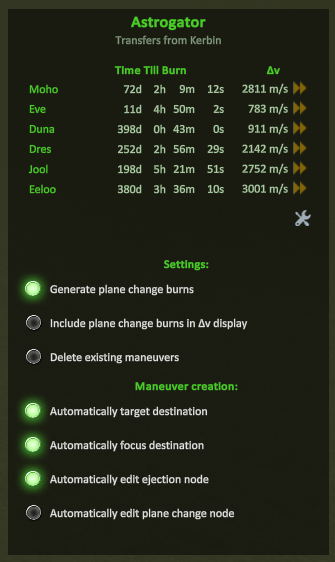
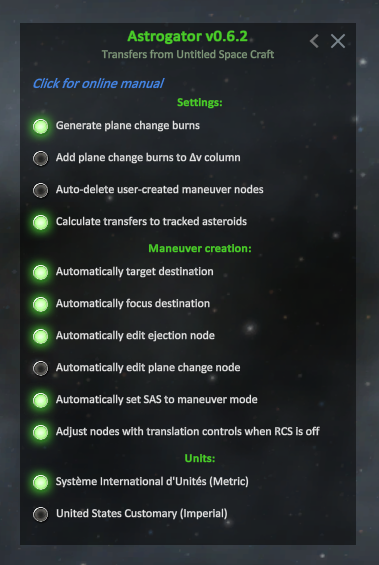
Prep for v0.6.2
- Update versions
- New main screenshot
- New settings screenshot
- Fix out of order settings Documentation

diff --git a/src/Properties/AssemblyInfo.cs b/src/Properties/AssemblyInfo.cs
@@ -31,5 +31,5 @@ using System.Runtime.InteropServices;
 //
 // You can specify all the values or you can default the Build and Revision Numbers
 // by using the '*' as shown below:
-[assembly: AssemblyVersion("0.6.1.0")]
-[assembly: AssemblyFileVersion("0.6.1.0")]
+[assembly: AssemblyVersion("0.6.2.0")]
+[assembly: AssemblyFileVersion("0.6.2.0")]

diff --git a/README.md b/README.md
@@ -45,7 +45,7 @@ If it's already within 5 minutes, you'll be auto-warped to the exact time of the
 
 ## Settings
 
-Click the wrench to open and close the settings panel:
+Click the wrench to open the settings panel and the back button to close it:
 
 ![Settings panel](screenshots/settingsPanel.png)
 
@@ -54,13 +54,13 @@ Click the wrench to open and close the settings panel:
 | Generate plane change burns | If you turn this off, then only (prograde) ejection maneuvers will be calculated. This may be needed if the plane change calculations become disruptive. |
 | Add plane change burns to Δv column | If you enable this, then the delta V shown in the table will be the ejection node plus the plane change node. Otherwise only the ejection delta V is shown, to make ejection burns less confusing when flying without maneuver nodes. |
 | Auto-delete user-created maneuver nodes | Our method for calculating plane changes doesn't work if other unrelated maneuvers are active. By default, we simply don't calculate them if that happens. Enabling this setting tells Astrogator to go ahead and delete your nodes if it needs to. **Use with caution!** |
+| Calculate transfers to tracked asteroids | When this is enabled, tracked astroids will be included in the list of transfers as if they were celestial bodies. |
 | Automatically target destination | When this is enabled, clicking the maneuver node icon will set the destination as the active vessel's target. This can be helpful because it enables the close approach markers. |
 | Automatically focus destination | When this is enabled, clicking the maneuver icon will change the map view focus. If the default maneuvers create an encounter with the desired body, then that body will be focused so you can fine tune your arrival; otherwise the destination's parent body will be focused so you can establish the encounter. |
 | Automatically edit ejection node | When this is enabled, clicking the maneuver icon will leave the first node open for editing. |
 | Automatically edit plane change node | If you enable this, then the second node will be opened for editing instead of the first. |
 | Automatically set SAS to maneuver mode | When this is enabled, clicking a maneuver creation button will activate SAS and put it into maneuver mode, which will cause your craft to orient toward the maneuver. |
 | Adjust nodes with translation controls when RCS is off | When this is enabled and RCS is turned off, maneuver nodes generated by Astrogator can be adjusted using the HNIJKL translation keys and the joystick translation axes. |
-| Calculate transfers to tracked asteroids | When this is enabled, tracked astroids will be included in the list of transfers as if they were celestial bodies. |
 | Units: Metric | Shows delta V in m/s (meters per second) |
 | Units: United States Customary | Shows delta V in mph (miles per hour) |
 

diff --git a/TODO.md b/TODO.md
@@ -38,8 +38,3 @@
 ## Deferred pending stock changes
 
 - [ ] Rendezvous with asteroids near Pe of their future encounter/escape trajectories
-
-## Documentation
-
-- [ ] New main screenshot
-- [ ] New settings screenshot
